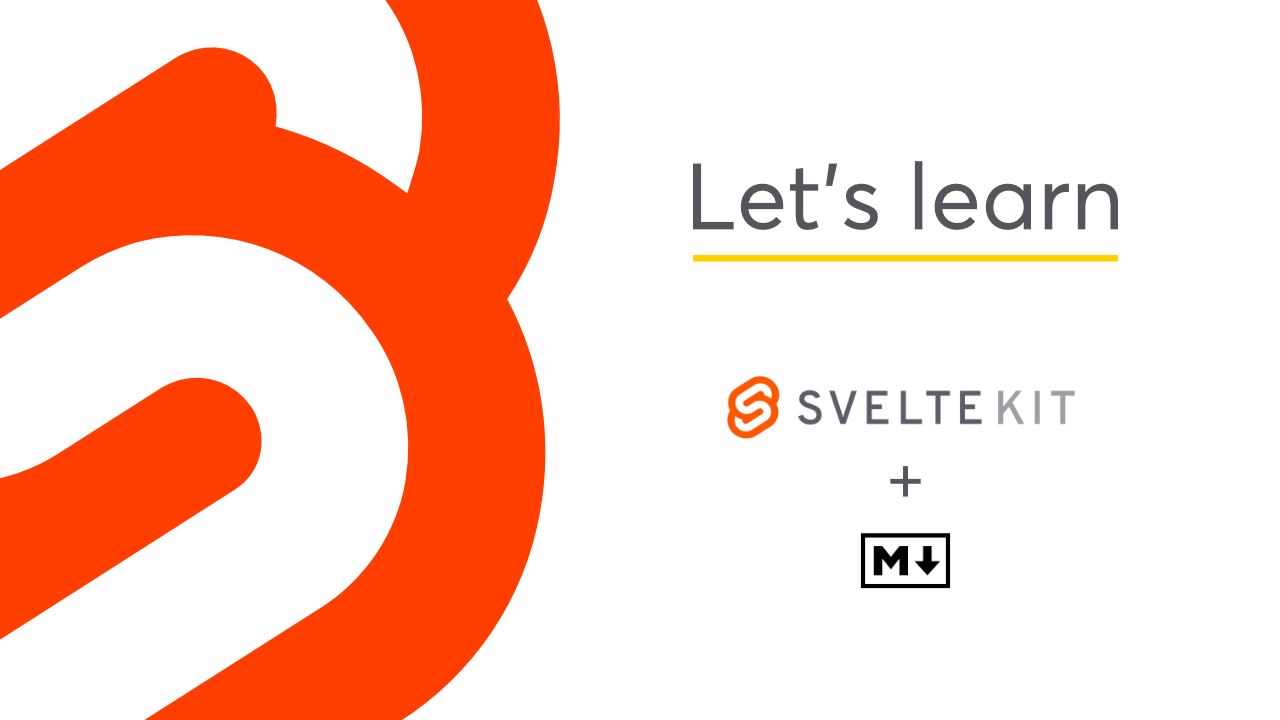
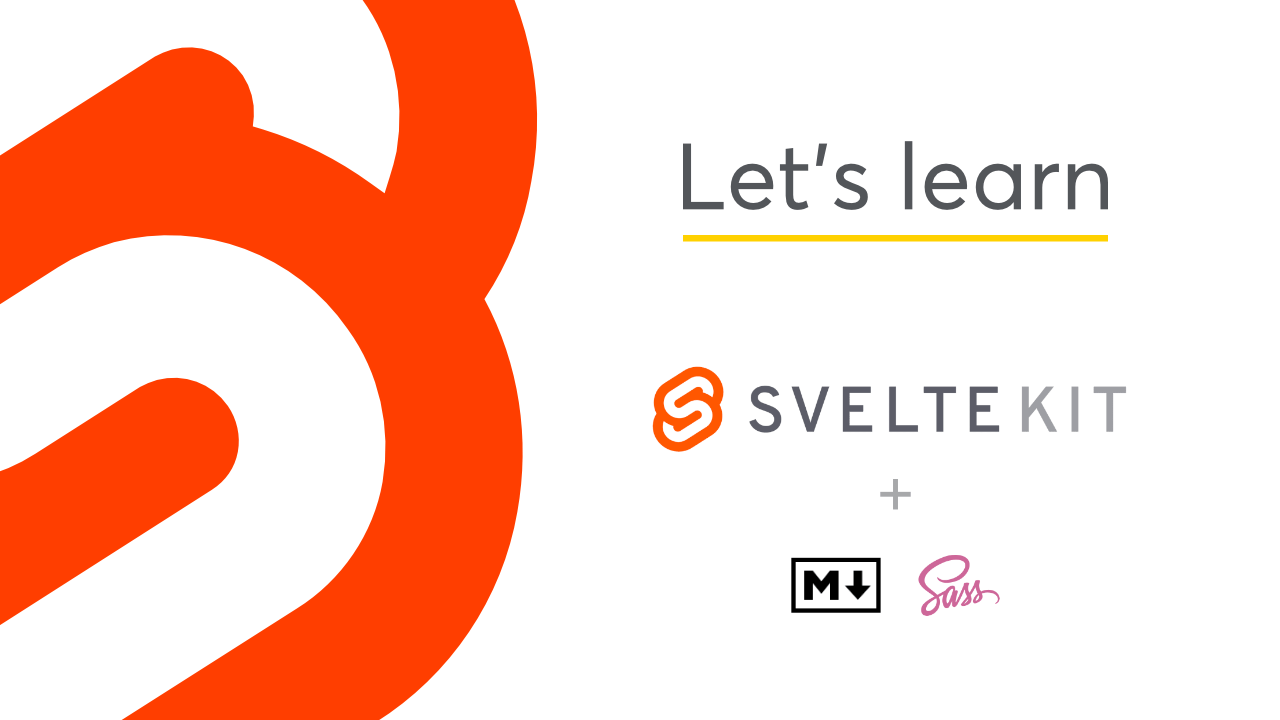
Add rehype section and rework config file

diff --git a/svelte.config.js b/svelte.config.js
@@ -21,8 +21,8 @@ const config = {
 				alias: { vue: 'html' }
 			},
 			rehypePlugins: [
+				rehypeSlug,
 				rehypeAutolinkHeadings,
-				rehypeSlug
 			]
 			//Optional: add a layout here
 		}),

diff --git a/src/routes/blog/_posts/zero-to-static-blog-sveltekit.md b/src/routes/blog/_posts/zero-to-static-blog-sveltekit.md
@@ -6,6 +6,7 @@ categories:
   - "svelte"
   - "javascript"
   - "web"
+  - "sass"
 coverImage: "sveltekit-learn.png"
 coverWidth: 16
 coverHeight: 9
@@ -17,17 +18,19 @@ excerpt: Learn the fundamentals of SvelteKit by building a statically generated 
 </script>
 
 
-I have been gushing about SvelteKit ever since I rebuilt my site with it earlier this year. So when I found out a respected web dev colleague of mine had tried out the framework, I was delighted--for a moment. Then I saw this message:
+After hearing me gush about how much I enjoyed SvelteKit and [rewriting this blog with it](/blog/converting-from-gridsome-to-sveltekit), I managed to talk a colleague into trying it out. I was excited, until I saw this message from him:
 
 > man I just tried to hello world SvelteKit and it is NOT for me
 
-I've had _so_ much fun with SvelteKit, my first reaction was to type "wait, no! Let me help!" in a mild frenzy.
+Obviously, I was disappointed. Why were our experiences so different?
 
-I paused, though, because I know it can be annoying to over-sell something, no matter how good that thing might actually be. (I'm sure we can all think of something ruined for us by its audience.)
+And I realized: I wasn't just trying to "hello world" SvelteKit when I tried it out. I was working on a real project, building an actual site, and generally (happily) putting in much more time and effort than a quick weekend project. And _that_ made me overlook the initial learning curve.
 
-But also: because once I thought about it, I realized getting started with SvelteKit _is_ actually a bit more involved than some other frameworks--_especially_ if all you're trying to do is make a simple static blog, which is _not_ the default behavior of SvelteKit. (Its default is server-side rendering, not prerendered HTML files.)
+SvelteKit _is_ awesome, and while I'd argue it's simpler than many comparable app frameworks, it's so flexible and powerful that it _can_ be intimidating at first--_especially_ if all you're trying to do is make a simple static blog, which is not the default behavior. (SvelteKit's default is server-side rendering, not prerendered HTML files.)
 
 In an effort to prevent others from being stopped by this initial barrier, I'd like to walk you through how to set up SvelteKit as a static, markdown-powered blog with Sass--just like this site.
+
+Along the way, we'll learn all the fundamentals of SvelteKit, and get some opportunities to try out its features.
 
 ---
 
@@ -394,22 +397,22 @@ Either way, you'll just `import` it to use it:
 
 Inside that main `.scss` file, you're free to `@import` any other SCSS files you like, as you might when using Sass. Since our layout "wraps" every page on the site, any Sass that passes through it will be compiled as a global style.
 
-Ok, we've gotten a pretty good idea of project structure and styling at this point. Let's move on to the last big missing piece: support for Markdown, via a Svelte package called MDSvex.
+Ok, we've gotten a pretty good idea of project structure and styling at this point. Let's move on to the last big missing piece: support for Markdown, via a Svelte package called mdsvex.
 
 
-## Adding Markdown support with MDSvex
+## Adding Markdown support with mdsvex
 
-If you've heard of MDX (generally used in React-based projects), you could think of the curiously named MDSvex as the Svelte equivalent. Otherwise, just know that MDSvex not only processes Markdown into static HTML for us, but it _also_ allows us to inject Svelte into Markdown--handy for adding functional components to our content where needed!
+If you've heard of MDX (generally used in React-based projects), you could think of the curiously named mdsvex as the Svelte equivalent. Otherwise, just know that mdsvex not only processes Markdown into static HTML for us, but it _also_ allows us to inject Svelte into Markdown--handy for adding functional components to our content where needed!
 
-Here's the terminal command to install MDSvex:
+Here's the terminal command to install mdsvex:
 
 ```bash
 npm i -D mdsvex
 ```
 
-Just like `svelte-preprocess`, once we've installed MDSvex, we'll need to let SvelteKit know how to use it, in our `svelte.config.js` file.
+Just like `svelte-preprocess`, once we've installed mdsvex, we'll need to let SvelteKit know how to use it, in our `svelte.config.js` file.
 
-First, add MDSvex to the list of imports at the top of the file (notice the named import `{}` syntax):
+First, add mdsvex to the list of imports at the top of the file (notice the named import `{}` syntax):
 
 ```js
 // svelte.config.js
@@ -418,7 +421,7 @@ import { mdsvex } from 'mdsvex';
 
 Then, inside of the `config` object, we'll need to add two things:
 
-1. Add a `config.extensions` property, to tell SvelteKit what kind of files will be preprocessed with MDSvex;
+1. Add a `config.extensions` property, to tell SvelteKit what kind of files will be preprocessed with mdsvex;
 
 2. Add the `mdsvex()` function to the `config.preprocess` array.
 
@@ -442,7 +445,7 @@ Note that we have `extensions` properties in two places; **both of these are nec
 
 `config.extensions` tells SvelteKit what types of files may have transformations _in_ them, and since most things in SvelteKit go through a Svelte component in some way or another, we'll need to include both `.svelte` and `.md` file types.
 
-The preprocessor option tells MDSvex what file types to _apply_ the transformation to. (The default is `.svx`, which is why this option is necessary.)
+The preprocessor option tells mdsvex what file types to _apply_ the transformation to. (The default is `.svx`, which is why this option is necessary.)
 
 Be sure to restart your dev server after making this config change.
 
@@ -460,12 +463,12 @@ Markdown is a handy option if you've got pages on your website that are mainly t
 
 You can even import and use Markdown files _inside of_ other files if you want to, although I won't get into that here. (It's a handy option if you want some per-page styling for Markdown content, though.)
 
-Let's cover a couple other nice features of MDSvex before moving on.
+Let's cover a couple other nice features of mdsvex before moving on.
 
 
 ### Code blocks in markdown
 
-One extremely handy feature of MDSvex is that it comes with prism.js pre-installed and ready to use. All you need to do is note in your Markdown code what language a code block is, and MDSvex will highlight it accordingly, like so:
+One extremely handy feature of mdsvex is that it comes with prism.js pre-installed and ready to use. All you need to do is note in your Markdown code what language a code block is, and mdsvex will highlight it accordingly, like so:
 
 ```markdown
 \```js
@@ -473,7 +476,7 @@ One extremely handy feature of MDSvex is that it comes with prism.js pre-install
 \```
 ```
 
-All the code blocks on this website are made just like that. And as a bonus: MDSvex even has `svelte` available as a highlighting option!
+All the code blocks on this website are made just like that. And as a bonus: mdsvex even has `svelte` available as a highlighting option!
 
 
 ### Using Svelte components in Markdown
@@ -529,6 +532,95 @@ Markdown is rad!
 This example is arguably a little bit contrived. Some possibly more useful examples: you could have a `<RelatedPosts>` component that loads previews of other posts similar to the current one. Or, maybe you'd like to let the user compare two images by swiping between the two; that would be a great component use case.
 
 Hopefully, it's easy to imagine the power of being able to drop arbitrary Svelte components into post content.
+
+
+### Adding heading links with rehype
+
+It's nice to let users link directly to a section on a post (a particular heading, that is). Adding links to all our headings by hand would be tedious, and against the point of writing in Markdown, so an automatic solution would be ideal.
+
+Luckily, mdsvex allows us to use [rehype](https://github.com/rehypejs/rehype) plugins to add extra features to its markdown processing, and so we can make this all happen automatically with just a bit of config adjustment.
+
+<SideNote>
+Rehype is an HTML parser, and not specific to Svelte or mdsvex; it's commonly used in a wide range of projects.
+</SideNote>
+
+There are two rehype plugins we'll want specifically (in this order):
+
+- `rehype-slug`, which automatically adds IDs to headings;
+- `rehype-autolink-headings`, which (as the name clearly implies), automatically adds links to our headings.
+
+Install them like so:
+
+```bash
+npm i rehype-slug rehype-autolink-headings
+```
+
+Then we'll pop open our `svelte.config.js` file, import our two new rehype plugins, and add them to the `mdsvex` config options object, like so:
+
+```js
+// svelte.config.js
+import rehypeSlug from 'rehype-slug'
+import rehypeAutolinkHeadings from 'rehype-autolink-headings'
+// ...other imports here
+
+const config = {
+  // ...other config properties here
+
+  preprocess: [
+    preprocess(),
+    mdsvex({
+      extensions: ['.md'],
+      rehypePlugins: [
+        rehypeSlug,
+        rehypeAutolinkHeadings,
+      ]
+    }),
+  ],
+};
+
+export default config;
+```
+
+**Important note: the plugins _must_ go in that order!** `rehypeSlug` adds IDs to our headings, and `rehypeAutolinkHeadings` only adds links to headings with IDs. So, again: make sure they're in the proper order in the `rehypePlugins` array.
+
+With that in place, we'll need to restart our dev server.
+
+When we do, we won't notice anything different in our blog pages, even if we _do_ add some additional headings. Pop open the inspector, however, and we'll see our processed Markdown has some added new features!
+
+![The headings in our blog posts now have links to them, with icon elements inside.](/images/post_images/sveltekit-rehype.png)
+
+That's nifty! However, we'll need to add a bit of styling to make the links show up properly. (The `.icon.icon-link` class is a [Font Awesome](https://fontawesome.com/) convention, so it doesn't automatically mean or do anything in our project.)
+
+How you prefer to handle this is personal preference, but I personally added this block of Sass to my global styles:
+
+```scss
+:where(h2, h3, h4, h5, h6) {
+  .icon-link {
+    position: relative;
+    
+    &::before {
+      content: '🔗';
+      position: absolute;
+      left: -2ch;
+      top: 0;
+      line-height: 1;
+      opacity: 0;
+    }
+  }
+
+  &:hover .icon-link::before {
+    opacity: 1;
+  }
+}
+```
+
+That bit of CSS will make a little link emoji appear whenever the user hovers on a heading with a link in it:
+
+![A chain link emoji appears to the left of a hovered heading.](/images/post_images/sveltekit-rehype-css.png)
+
+Thanks to how CSS treats pseudo elements, that icon is fully clickable as part of the link, to navigate directly to the heading in question.
+
+You could _also_ add some JavaScript to handle automatically copying the link to the clipboard (potentially using the Svelte `onMount` function), but I'll leave that detail up to you. For now, our links are working without any further effort necessary on our part.
 
 
 ## Setting up the blog routes
